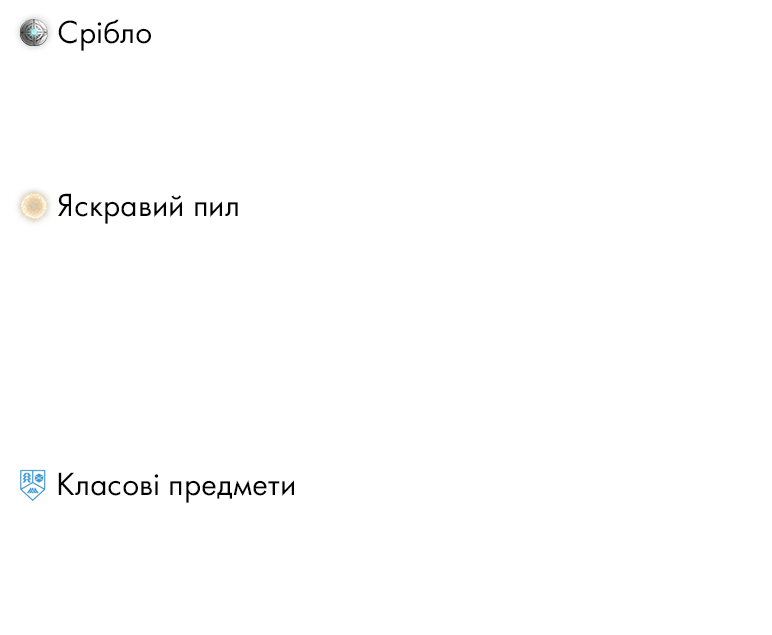
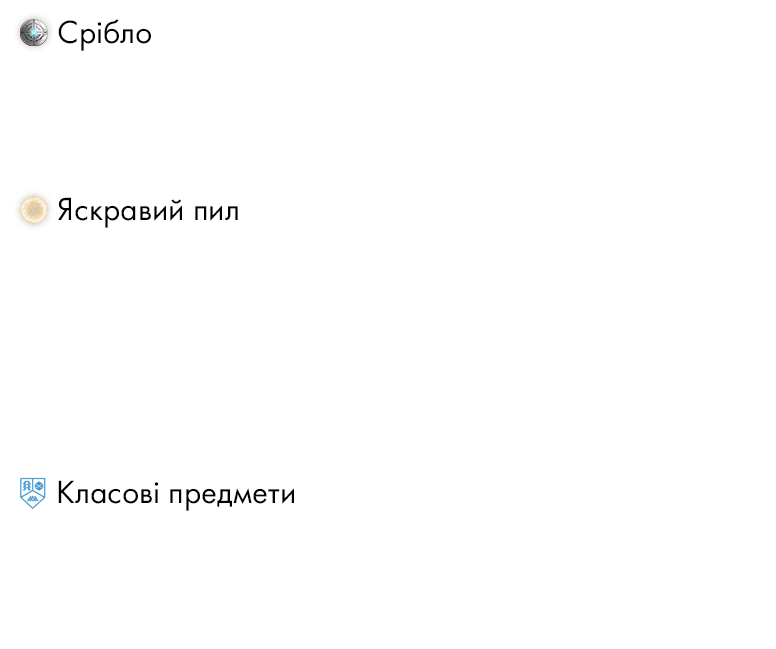
Eververse bug fixes

Changed region(s): [[0.0622, 0.2992, 0.3109, 0.3591], [0.0311, 0.7181, 0.4041, 0.8079], [0.0311, 0.0299, 0.1865, 0.0898]]

diff --git a/ServitorServices/DestinyInfocardsService/DataParser/ParseEververse.cs b/ServitorServices/DestinyInfocardsService/DataParser/ParseEververse.cs
@@ -11,6 +11,37 @@ namespace DestinyInfocardsService
 
             List<EververseItem> eververseItems = new();
 
+            var eververseWeekly = htmlDoc.DocumentNode.SelectSingleNode($"//*[contains(@id,'week{weekNumber}_content')]");
+
+            if (eververseWeekly is not null)
+            {
+                for (int i = 1; i <= 5; i++)
+                {
+                    var container = eververseWeekly.SelectSingleNode($"//div[@class='eververseSeasonContainer'][{i}]//div[@class='eververseWeeklySeasonContentContainer']");
+
+                    if (container is null)
+                        break;
+
+                    for (int j = 1; j <= 7; j++)
+                    {
+                        var itemContainer = container.SelectSingleNode($"./div[{j}]");
+
+                        if (itemContainer is null)
+                            break;
+
+                        var itemIconURL = itemContainer.SelectSingleNode(".//*[@class='manifestItemIcon']").Attributes["src"].Value;
+                        var seasonIconURL = itemContainer.SelectSingleNode(".//*[@class='manifestItemWatermarkIcon']")?.Attributes["src"].Value;
+
+                        eververseItems.Add(new EververseItem
+                        {
+                            ItemCategory = i == 1 ? ItemCategory.Silver : (i < 4 ? ItemCategory.Dust : ItemCategory.ClassBased),
+                            ItemIconURL = itemIconURL,
+                            ItemSeasonIconURL = seasonIconURL
+                        });
+                    }
+                }
+            }
+
             return new EververseInventory
             {
                 EververseItems = eververseItems
@@ -18,64 +49,3 @@ namespace DestinyInfocardsService
         }
     }
 }
-//using DataProcessor.Parsers.Inventory;
-//using HtmlAgilityPack;
-//using SixLabors.Fonts;
-//using SixLabors.ImageSharp;
-//using SixLabors.ImageSharp.Drawing.Processing;
-//using SixLabors.ImageSharp.PixelFormats;
-//using SixLabors.ImageSharp.Processing;
-//using System;
-//using System.Collections.Generic;
-//using System.IO;
-//using System.Threading.Tasks;
-
-//namespace DataProcessor.Parsers
-//{
-
-//        public async Task<EververseInventory> GetInventoryAsync() => await GetInventoryAsync(null);
-
-//        public async Task<EververseInventory> GetInventoryAsync(int? weekNumber)
-//        {
-//            var eververseWeekly = htmlDoc.DocumentNode.SelectSingleNode($"/html/body/main/div[1]/div[{week - 15}]");
-
-//            if (eververseWeekly is not null)
-//            {
-//                inventory.SeasonIconURL = eververseWeekly.SelectSingleNode($"./div[1]/img").Attributes["src"].Value;
-
-//                for (int i = 1; i <= 4; i++)
-//                {
-//                    var container = eververseWeekly.SelectSingleNode($"./div[2]/div/div[{i}]/div[2]/div")
-//                       ?? eververseWeekly.SelectSingleNode($"./div[2]/div/div[{i}]/div[1]/div");
-
-//                    if (container is not null)
-//                    {
-//                        List<EververseItem> items = new();
-
-//                        for (int j = 1; j <= 7; j++)
-//                        {
-//                            var item = new EververseItem();
-
-//                            var node = container.SelectSingleNode($"./div[{j}]/div[1]/img[3]")
-//                            ?? container.SelectSingleNode($"./div[{j}]/div[1]/img[2]");
-
-//                            if (node is not null)
-//                                item.Icon1URL = node.Attributes["src"].Value;
-
-//                            node = container.SelectSingleNode($"./div[{j}]/div[1]/img[1]");
-
-//                            if (node is null)
-//                                break;
-
-//                            item.Icon2URL = node.Attributes["src"].Value;
-
-//                            items.Add(item);
-//                        }
-
-//                        inventory.EververseItems.Add(items);
-//                    }
-//                }
-//            }
-
-//            return inventory;
-//        }

diff --git a/ServitorServices/DestinyInfocardsService/ImageGenerator/GetEververseImage.cs b/ServitorServices/DestinyInfocardsService/ImageGenerator/GetEververseImage.cs
@@ -21,8 +21,8 @@ namespace DestinyInfocardsService
                     Image.Load(Properties.Resources.EververseInfocardRegular));
 
             await DrawItemsAsync(image, silverItems, 69);
-            await DrawItemsAsync(image, dustItems, 242);
-            await DrawItemsAsync(image, classBasedItems, 521);
+            await DrawItemsAsync(image, dustItems, 246);
+            await DrawItemsAsync(image, classBasedItems, 529);
 
             return image;
         }
@@ -35,7 +35,7 @@ namespace DestinyInfocardsService
             {
                 await DrawItemAsync(image, item, x, y);
 
-                if (++counter > 7)
+                if (++counter > 6)
                 {
                     counter = 0;
 
@@ -51,6 +51,9 @@ namespace DestinyInfocardsService
         private static async Task DrawItemAsync(Image image, EververseItem item, int x, int y)
         {
             using var itemIcon = await ImageLoader.GetImageAsync(item.ItemIconURL);
+
+            if (itemIcon.Width > 96)
+                itemIcon.Mutate(m => m.Resize(96, 96));
 
             image.Mutate(m => m.DrawImage(itemIcon, new Point(x, y), 1));
 
